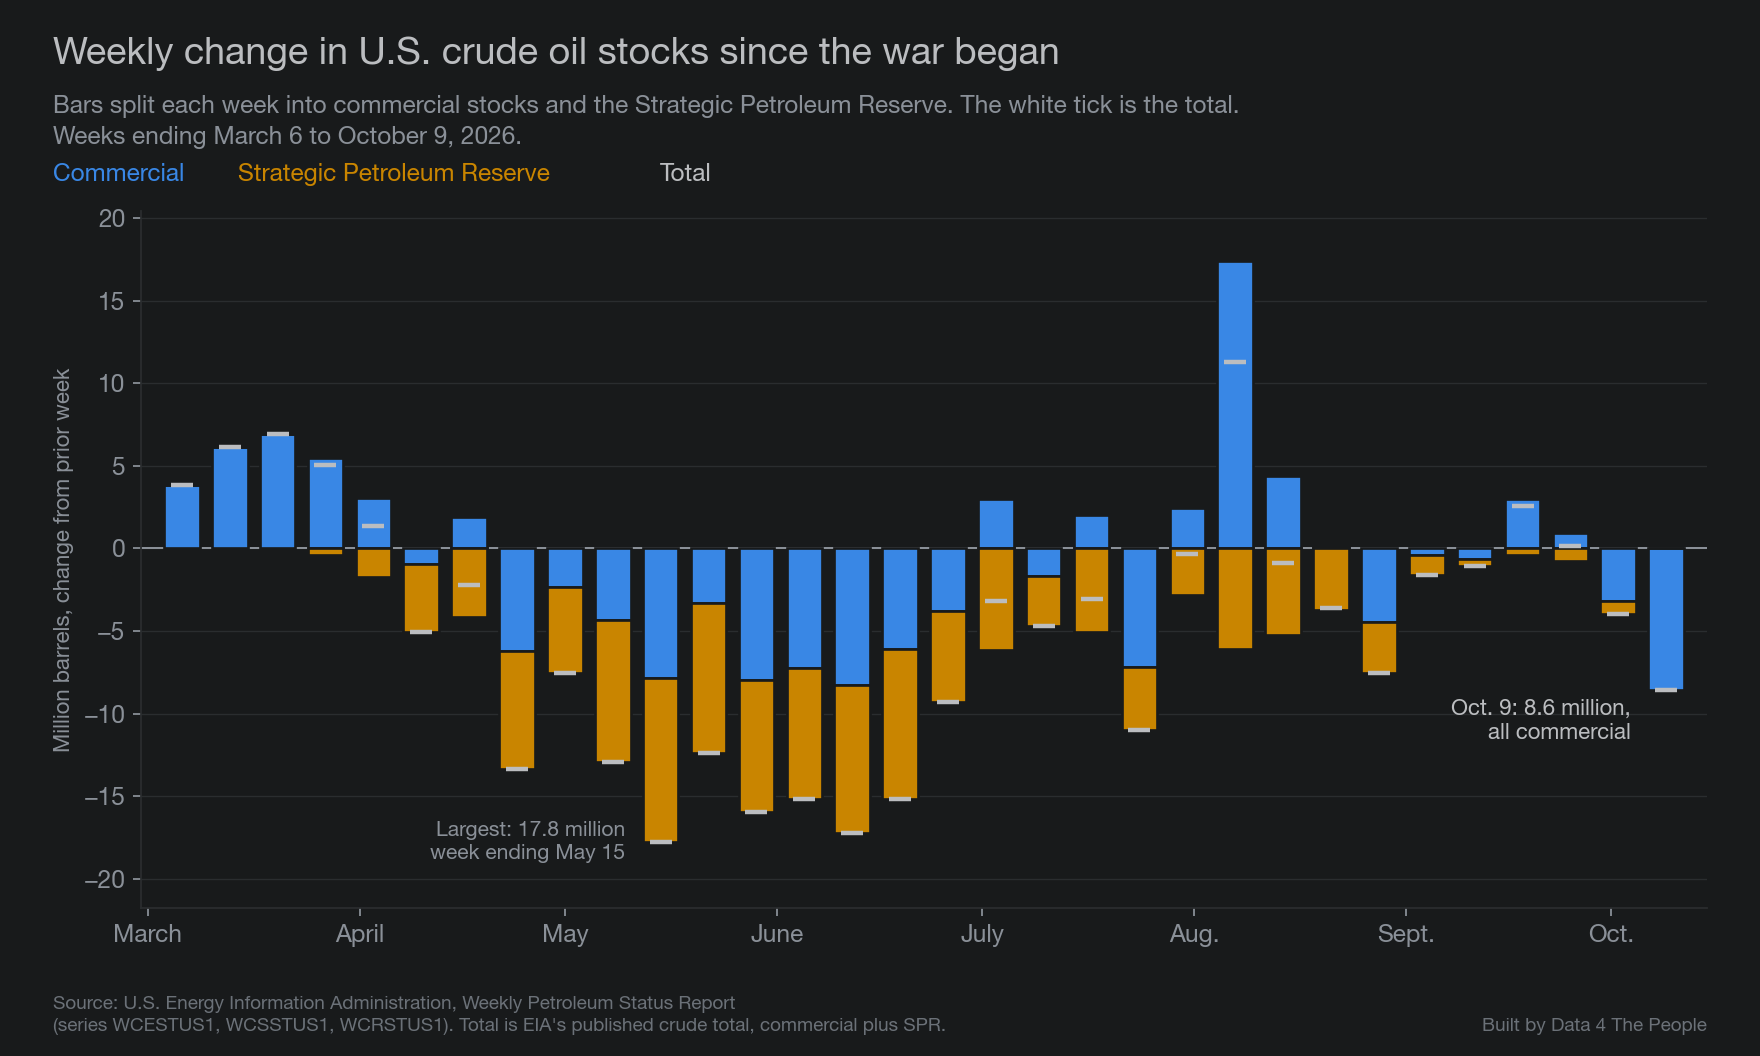
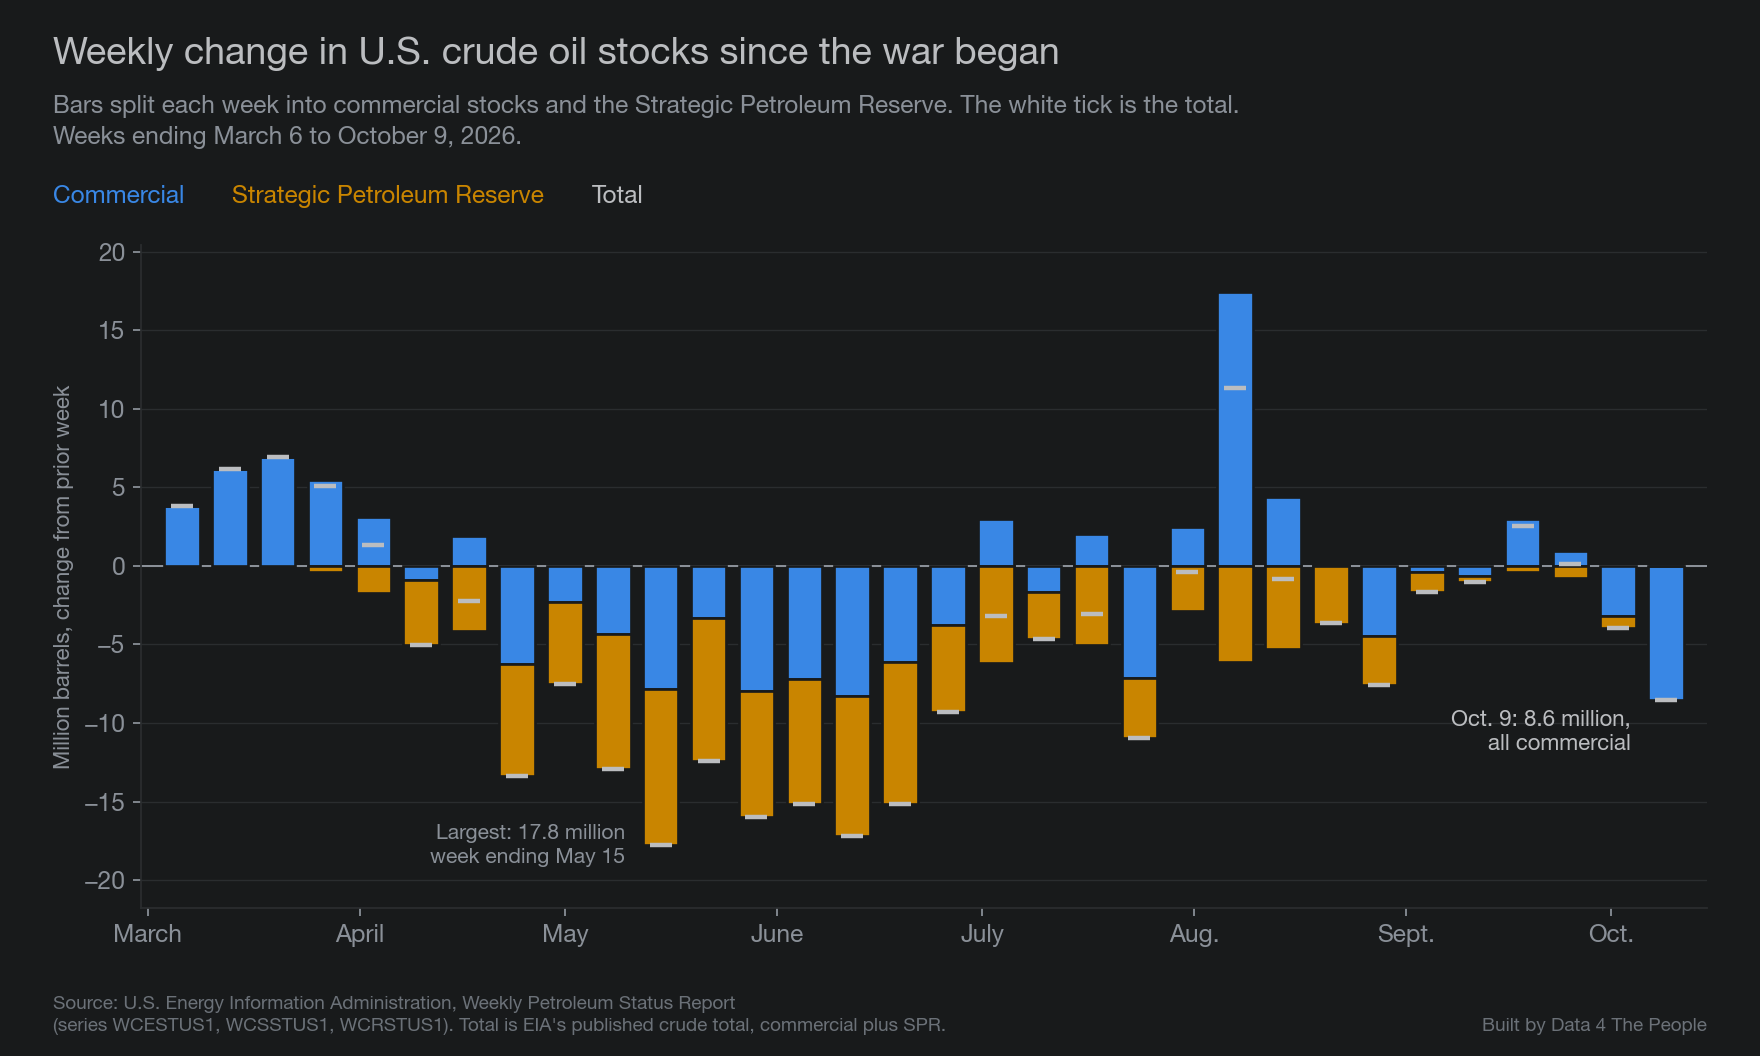
oil-draw-update: hero 1680x1080 and alt text

diff --git a/scripts/weekly_draws.py b/scripts/weekly_draws.py
@@ -107,12 +107,12 @@ def numbers(w):
     return d, n
 
 
-def chart(d, n):
+def chart(d, n, out=OUT_PNG, size=(11, 6.6)):
     use_house_style()
     war = d[d.index > WAR_START] / 1000
     x = war.index
-    fig, ax = plt.subplots(figsize=(11, 6.6))
-    fig.subplots_adjust(left=0.08, right=0.97, top=0.80, bottom=0.14)
+    fig, ax = plt.subplots(figsize=size)
+    fig.subplots_adjust(left=0.08, right=0.97, top=0.965 - 1.3 / size[1], bottom=0.14)
     width = 5.2
     pos_base = pd.Series(0.0, index=x); neg_base = pd.Series(0.0, index=x)
     for col, color in [("commercial", COMM), ("spr", SPR)]:
@@ -140,12 +140,14 @@ def chart(d, n):
     titleblock(fig, "Weekly change in U.S. crude oil stocks since the war began",
                "Bars split each week into commercial stocks and the Strategic Petroleum Reserve. "
                "The white tick is the total.\nWeeks ending March 6 to October 9, 2026.")
-    fig.text(0.03, 0.835, "Commercial", color=COMM, fontsize=11, fontweight="bold", va="center")
-    fig.text(0.135, 0.835, "Strategic Petroleum Reserve", color=SPR, fontsize=11, fontweight="bold", va="center")
-    fig.text(0.375, 0.835, "Total", color=INK, fontsize=11, fontweight="bold", va="center")
+    x0, r = 0.03, fig.canvas.get_renderer()
+    leg_y = 0.965 - 1.0 / fig.get_figheight()      # legend a fixed distance (inches) under the title
+    for word, c in [("Commercial", COMM), ("Strategic Petroleum Reserve", SPR), ("Total", INK)]:
+        t = fig.text(x0, leg_y, word, color=c, fontsize=11, fontweight="bold", va="center")
+        x0 = fig.transFigure.inverted().transform(t.get_window_extent(r))[1][0] + 0.3 / fig.get_figwidth()
     credit(fig, "Source: U.S. Energy Information Administration, Weekly Petroleum Status Report "
                 "\n(series WCESTUS1, WCSSTUS1, WCRSTUS1). Total is EIA's published crude total, commercial plus SPR.")
-    fig.savefig(OUT_PNG)
+    fig.savefig(out)
 
 
 if __name__ == "__main__":
@@ -155,4 +157,6 @@ if __name__ == "__main__":
     pd.concat([w, d.add_suffix("_chg")], axis=1).loc["2025-12-01":].to_csv("data/weekly_draws.csv", float_format="%.0f")
     json.dump(n, open("data/weekly_draws_numbers.json", "w"), indent=1, default=float)
     chart(d, n)
+    # hero source: same chart on a smaller canvas so type stays legible once padded to 1680x1080
+    chart(d, n, out="posts/oil-draw-update/images/oil-draw-update-hero-source.png", size=(9.4, 6.0))
     print(json.dumps(n, indent=1, default=float))

diff --git a/STATUS.md b/STATUS.md
@@ -40,3 +40,4 @@ None.
 - 2026-10-16 Independent tie-out of the gasoline section: all figures supported. Claude's own sentence changed from "well above past years" to "well above the usual range" (3 earlier years were higher in week 1).
 - 2026-10-16 Eric confirmed 2b. Step 2c opened.
 - 2026-10-16 2c: defaults only, no fences needed (no embeds; divider already above About the data). Importer convert-only: 37 blocks, 19 slices, 3 images, divider once. Hero warnings expected until 2d.
+- 2026-10-16 2d: hero from the crude draws chart (Eric's choice). scripts/weekly_draws.py now also renders the chart on a 9.4x6.0 in canvas (images/oil-draw-update-hero-source.png) so type stays legible, padded by hero pad to images/oil-draw-update-hero-1680x1080.png. Legend and plot top now placed in inches, which also re-spaced the in-post chart (layout only, same data). hero_alt 440 characters. hero check and importer: no warnings.

diff --git a/posts/oil-draw-update/POST.md b/posts/oil-draw-update/POST.md
@@ -5,7 +5,7 @@ slug: oil-draw-update
 date: 2026-10-16
 section: Data 4 Thought
 hero: images/oil-draw-update-hero-1680x1080.png
-hero_alt:
+hero_alt: Bar chart titled Weekly change in U.S. crude oil stocks since the war began, weeks ending March 6 to October 9, 2026, in million barrels. Each weekly bar is split into commercial stocks in blue and the Strategic Petroleum Reserve in gold, with a white tick for the total. Large gold draws fill May and June, led by a 17.8 million barrel drop in the week ending May 15. The last bar, October 9, is an 8.6 million barrel drop, all commercial.
 meta_title:
 description:
 keywords:
